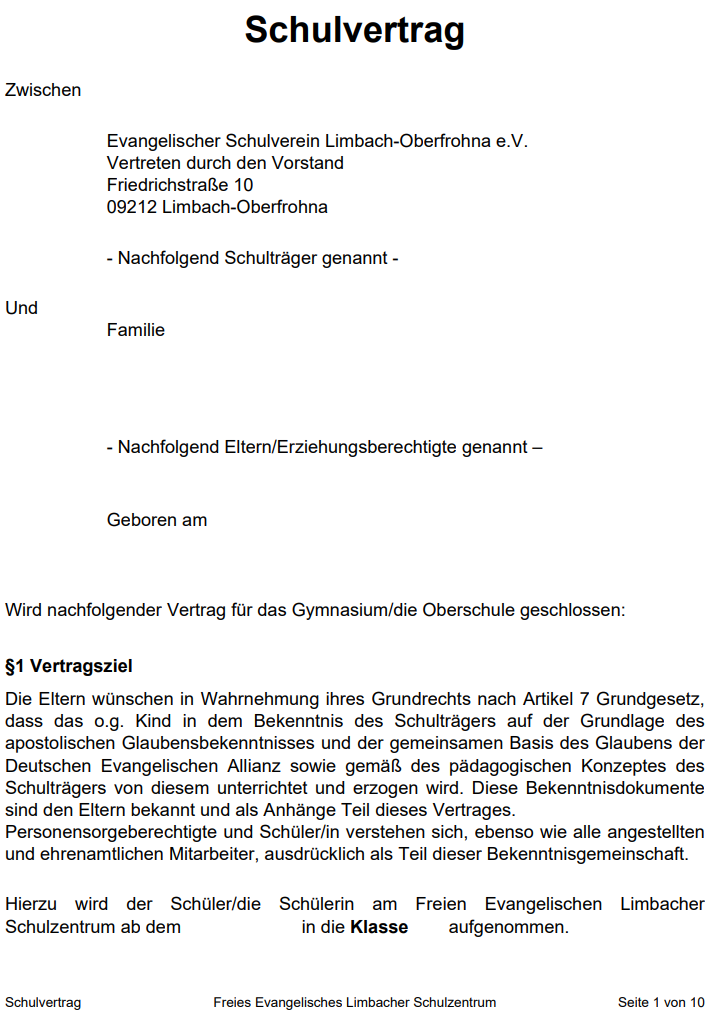
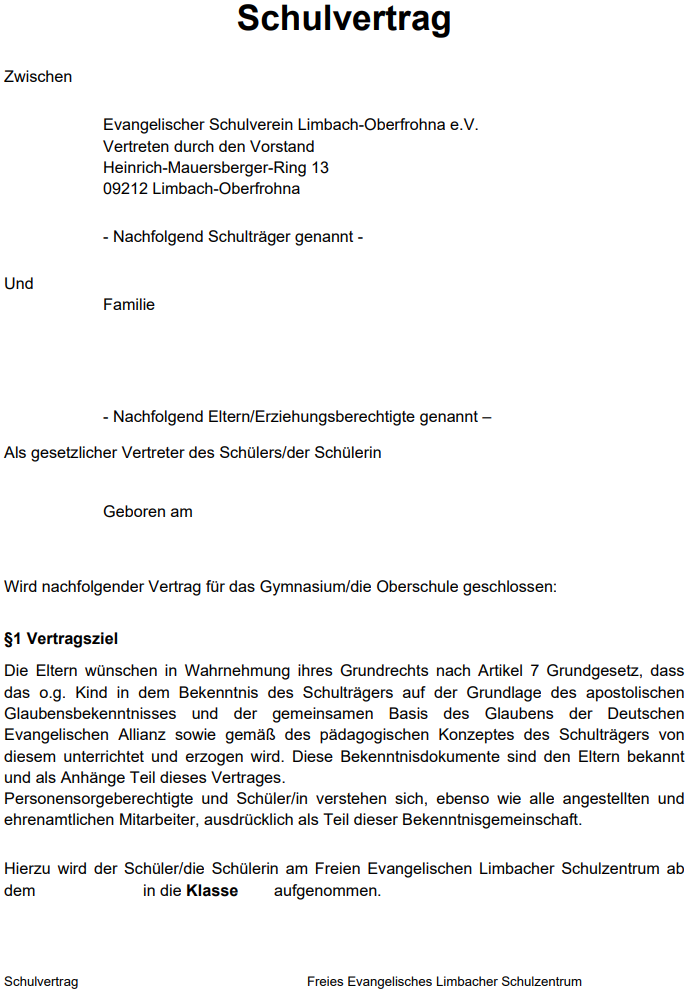
#SSW-1679 Änderung Adresse

diff --git a/Application/Api/Document/Custom/Limbach/Repository/SchoolContract.php b/Application/Api/Document/Custom/Limbach/Repository/SchoolContract.php
@@ -187,7 +187,7 @@ class SchoolContract extends AbstractDocument
                                 ->addElementColumn((new Element())
                                     ->setContent('Evangelischer Schulverein Limbach-Oberfrohna e.V.<br/>
                                                   Vertreten durch den Vorstand<br/>
-                                                  Friedrichstraße 10<br/>
+                                                  Heinrich-Mauersberger-Ring 13<br/>
                                                   09212 Limbach-Oberfrohna')
                                     ->styleTextSize(self::TEXT_SIZE)
                                     ->stylePaddingLeft('90px')
